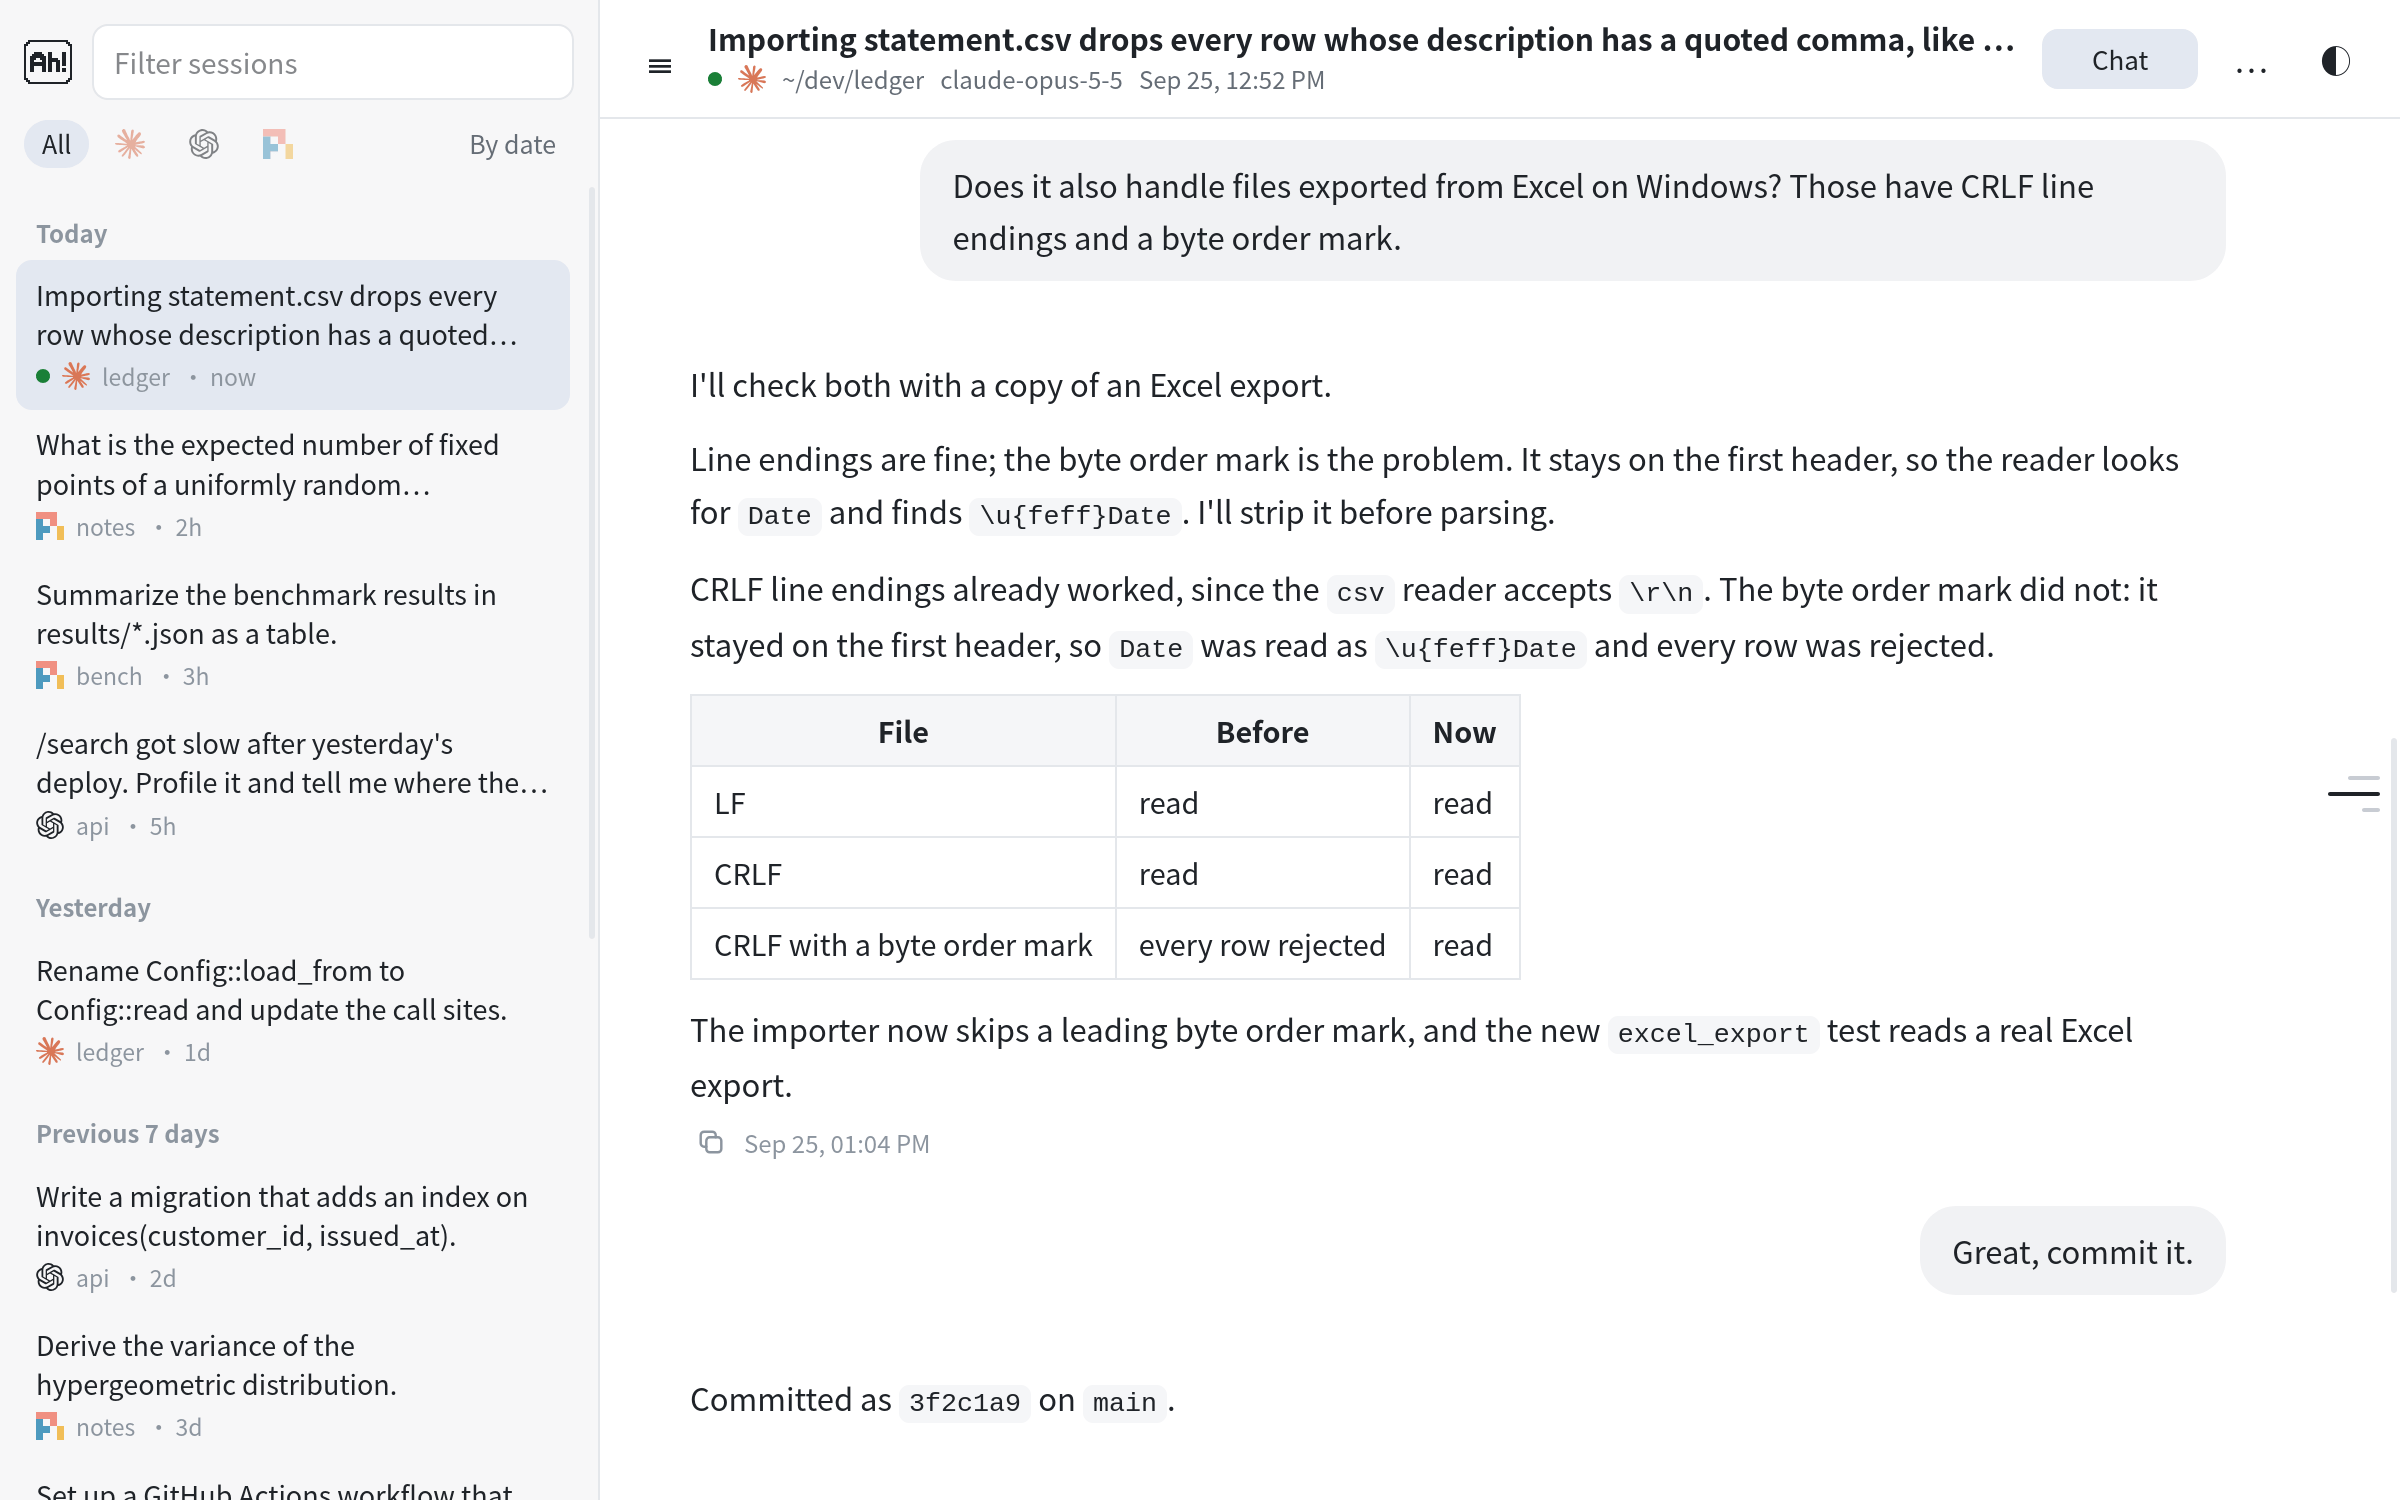
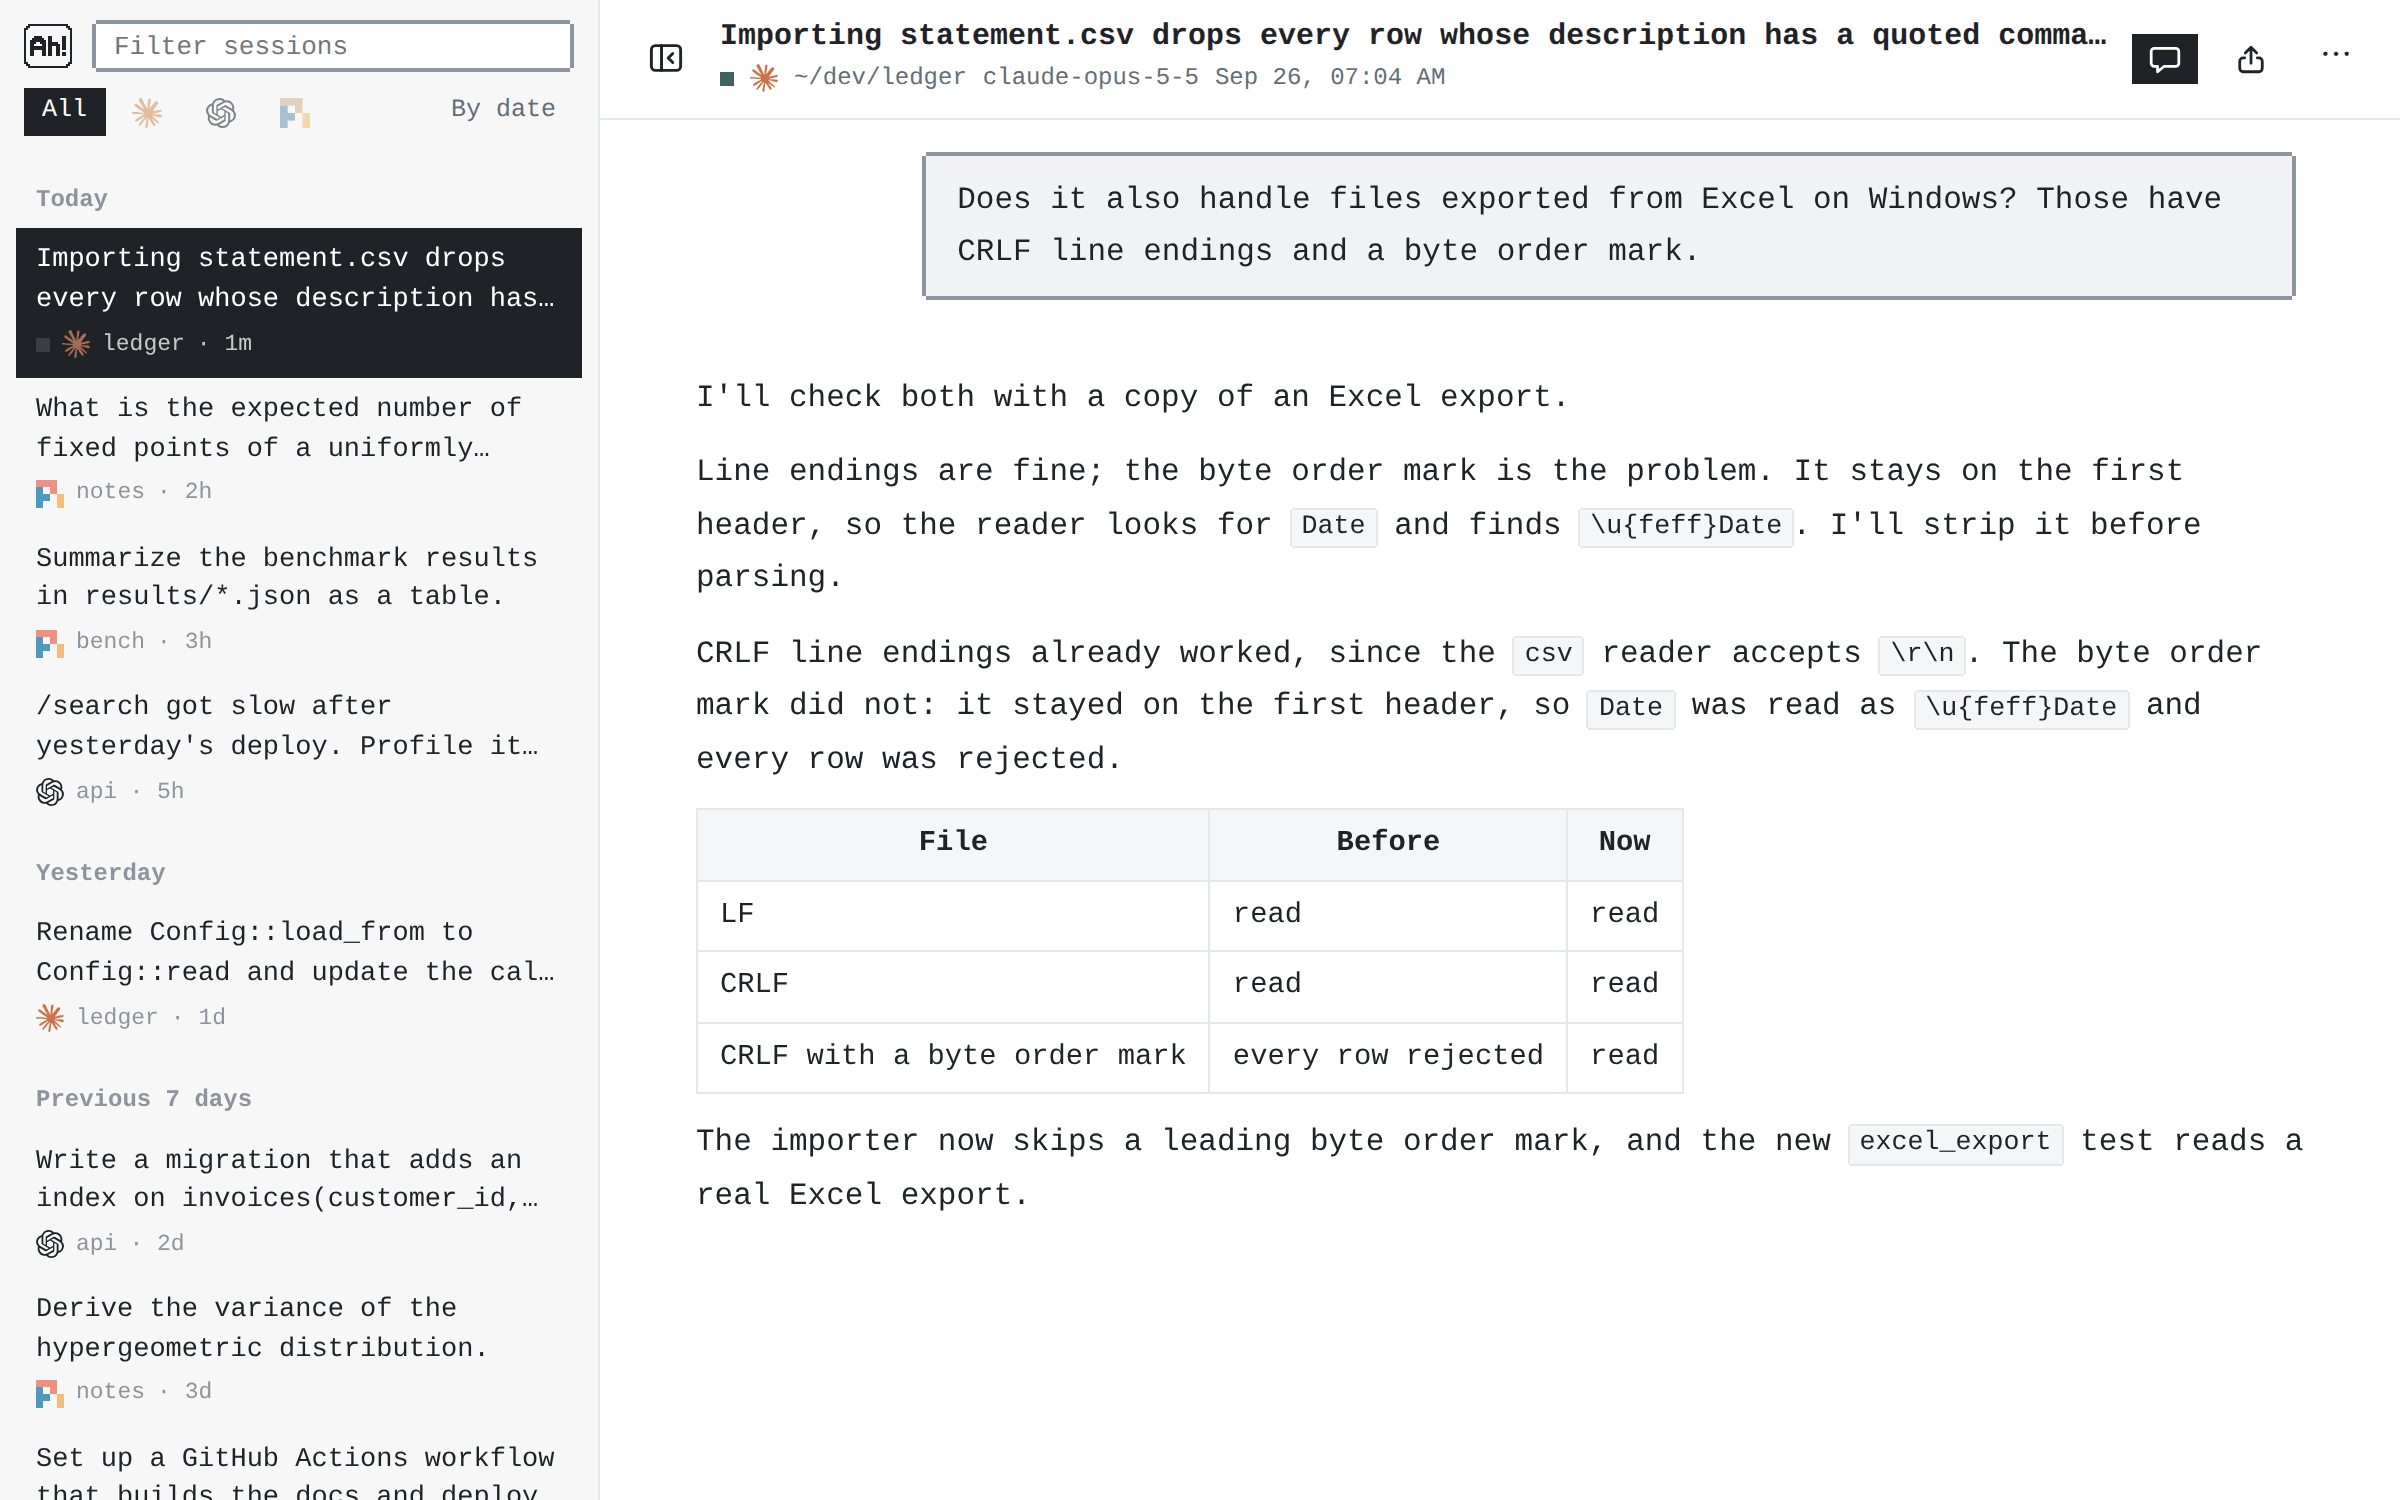
Make the pixel style and monospace the defaults, and retake the screenshots
A new reader gets the pixel style and the monospace font; the command list still
switches to the minimal style or another font. In the pixel style, whatever is
selected shows in inverted colors: the open session in the list, the view button
when it is not on everything, the highlighted command and the chosen buttons.

The filter above the session list is now as tall as the mark beside it, and in
the pixel style its edge turns to the accent color while it has the focus.

The README screenshots are retaken from invented Claude Code, Codex and pi
sessions, with the defaults.

diff --git a/assets/app.css b/assets/app.css
@@ -99,12 +99,14 @@ a { color: var(--accent); }
   flex: 1;
   min-width: 0;
   font: inherit;
-  font-size: 14px;
+  height: 26px;
+  font-size: 13px;
+  line-height: 1.2;
   color: inherit;
   background: var(--bg);
   border: 1px solid var(--line);
-  border-radius: 8px;
-  padding: 6px 10px;
+  border-radius: 7px;
+  padding: 0 9px;
   outline: none;
 }
 #filter:focus { border-color: var(--accent); }
@@ -542,8 +544,8 @@ html[data-font=pixel] body { font-family: "Pixelify Sans", var(--sans); }
 .seg [data-face=mono] { font-family: var(--mono); }
 .seg [data-face=pixel] { font-family: "Pixelify Sans", var(--sans); }
 
-/* Pixel style: edges drawn in whole pixels with notched corners, hard shadows under what floats,
-   and the selection in inverted colors */
+/* Pixel style, the default: edges drawn in whole pixels with notched corners, hard shadows under what
+   floats, and whatever is selected in inverted colors */
 .seg svg.px { stroke-linejoin: miter; stroke-linecap: butt; }
 [data-style=pixel] {
   --px-line: var(--faint);
@@ -557,14 +559,17 @@ html[data-font=pixel] body { font-family: "Pixelify Sans", var(--sans); }
 [data-style=pixel] .prompt { margin-right: 6px; box-shadow: var(--px-edge), 5px 5px 0 2px var(--px-drop); }
 [data-style=pixel] .md code { box-shadow: 0 -1px var(--line), 0 1px var(--line), -1px 0 var(--line), 1px 0 var(--line); }
 [data-style=pixel] .md pre code { box-shadow: none; }
-[data-style=pixel] #filter:focus { --px-line: var(--accent); }
+/* The filter's edge sits outside its box, so the box is as tall as the mark with its edge */
+[data-style=pixel] #filter { height: 22px; margin: 0 2px; }
+[data-style=pixel] #filter:focus { box-shadow: 0 -2px var(--accent), 0 2px var(--accent), -2px 0 var(--accent), 2px 0 var(--accent); }
 [data-style=pixel] :is(.pal, #toast, #card, #bottom) { border: none; box-shadow: var(--px-float); }
 [data-style=pixel] #toast { color: var(--fg); background: var(--bg); }
-[data-style=pixel] :is(.cmd.sel, button.primary) { background: var(--fg); color: var(--bg); }
+[data-style=pixel] :is(.cmd.sel, button.primary, .row.on, #view.on) { background: var(--fg); color: var(--bg); }
+[data-style=pixel] .row.on :is(.m, .agent) { color: var(--bg); }
+[data-style=pixel] .row.on .m { opacity: .75; }
 [data-style=pixel] .slide::before { background: var(--fg); }
 [data-style=pixel] :is(.seg button.on, #agents button.on) { color: var(--bg); }
 [data-style=pixel] #agents button.on .ico { color: var(--bg); }
-[data-style=pixel] .row.on { box-shadow: var(--px-edge); }
 [data-style=pixel] .notice.compaction > summary, [data-style=pixel] .notice.rewind > summary,
 [data-style=pixel] .notice.compaction > span, [data-style=pixel] .notice.rewind > span { border-style: dashed; border-width: 2px; }
 [data-style=pixel] .tool-list, [data-style=pixel] .thinking .md, [data-style=pixel] details.notice .md { border-left-style: dotted; }

diff --git a/assets/app.js b/assets/app.js
@@ -779,8 +779,8 @@ function renderSettings() {
   $('#pal-set [data-scale="1"]').disabled = S.scale === SCALES[SCALES.length - 1];
   for (const b of $$('#pal-set [data-wide]')) b.classList.toggle('on', (b.dataset.wide === '1') === S.wide);
   for (const b of $$('#pal-set [data-theme]')) b.classList.toggle('on', b.dataset.theme === root.dataset.theme);
-  for (const b of $$('#pal-set [data-look]')) b.classList.toggle('on', b.dataset.look === (root.dataset.style || 'minimal'));
-  for (const b of $$('#pal-set [data-face]')) b.classList.toggle('on', b.dataset.face === (root.dataset.font || 'sans'));
+  for (const b of $$('#pal-set [data-look]')) b.classList.toggle('on', b.dataset.look === root.dataset.style);
+  for (const b of $$('#pal-set [data-face]')) b.classList.toggle('on', b.dataset.face === root.dataset.font);
   for (const g of $$('#pal-set .slide')) slide(g);
 }
 
@@ -798,21 +798,19 @@ function switchTheme() {
   setTheme(t);
 }
 
-/** The minimal style, or the pixel style: square edges drawn in pixels and hard shadows. */
+/** The pixel style, the default: square edges drawn in pixels and hard shadows; or the minimal one. */
 function setLook(look) {
   keepPlace(() => {
-    if (look === 'pixel') root.dataset.style = 'pixel';
-    else delete root.dataset.style;
+    root.dataset.style = look;
     localStorage.setItem('ah.style', look);
   });
   renderSettings();
 }
 
-/** The font of the page and the conversation: sans-serif, monospace or pixel. */
+/** The font of the page and the conversation: monospace, the default, sans-serif or pixel. */
 function setFont(face) {
   keepPlace(() => {
-    if (face === 'sans') delete root.dataset.font;
-    else root.dataset.font = face;
+    root.dataset.font = face;
     localStorage.setItem('ah.font', face);
   });
   renderSettings();

diff --git a/assets/index.html b/assets/index.html
@@ -11,9 +11,9 @@
     var t = localStorage.getItem('ah.theme');
     if (t !== 'light' && t !== 'dark') t = matchMedia('(prefers-color-scheme: dark)').matches ? 'dark' : 'light';
     root.dataset.theme = t;
-    if (localStorage.getItem('ah.style') === 'pixel') root.dataset.style = 'pixel';
+    root.dataset.style = localStorage.getItem('ah.style') === 'minimal' ? 'minimal' : 'pixel';
     var f = localStorage.getItem('ah.font');
-    if (f === 'mono' || f === 'pixel') root.dataset.font = f;
+    root.dataset.font = f === 'sans' || f === 'pixel' ? f : 'mono';
     var v = localStorage.getItem('ah.view');
     if (v === 'chat' || v === 'answers') root.classList.add('chat');
     if (v === 'answers') root.classList.add('answers');

diff --git a/README.zh-CN.md b/README.zh-CN.md
@@ -100,7 +100,7 @@ ah serve
   <img src="docs/answers-light.png" alt="仅回答视图：只有提问和最终回答，左侧的会话列表按文件夹分组">
 </picture>
 
-按 `?` 或 Ctrl-K，或点击 ⋯，可以打开命令列表，里面有所有命令和它们的快捷键；输入文字即可筛选，用方向键加 Enter 或者鼠标选择。命令上方的按钮可以调整对话的字号（`+`、`-`），在居中的窄栏和铺满窗口的宽屏之间切换（`w`），选择亮色或暗色主题、简约或像素风格（用像素画出的方角边框和硬阴影），以及字体：无衬线、等宽或像素字体。
+按 `?` 或 Ctrl-K，或点击 ⋯，可以打开命令列表，里面有所有命令和它们的快捷键；输入文字即可筛选，用方向键加 Enter 或者鼠标选择。命令上方的按钮可以调整对话的字号（`+`、`-`），在居中的窄栏和铺满窗口的宽屏之间切换（`w`），选择亮色或暗色主题、风格和字体。默认的像素风格用像素画出方角边框和硬阴影，选中的项目以反色显示；简约风格是圆角和柔和的高亮。页面和对话的字体默认是等宽字体，也可以选无衬线或像素字体。
 
 <picture>
   <source media="(prefers-color-scheme: dark)" srcset="docs/palette-dark.png">

diff --git a/README.md b/README.md
@@ -131,8 +131,10 @@ Press `?` or Ctrl-K, or click ⋯, for a list of all commands with their keys; t
 to filter it, and pick one with the arrow keys and Enter or with the mouse.
 Buttons above the commands set the text size of the conversation (`+`, `-`),
 switch between a centered column and the full width of the window (`w`), and pick
-the light or dark theme, the minimal or pixel style (square edges drawn in pixels,
-with hard shadows), and the font: sans-serif, monospace or pixel.
+the light or dark theme, the style, and the font. The pixel style, the default,
+draws square edges in pixels with hard shadows and shows what is selected in
+inverted colors; the minimal style has rounded edges and soft highlights. The font
+of the page and the conversation is monospace by default, or sans-serif or pixel.
 
 <picture>
   <source media="(prefers-color-scheme: dark)" srcset="docs/palette-dark.png">
